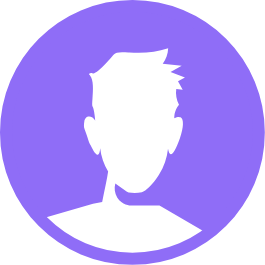
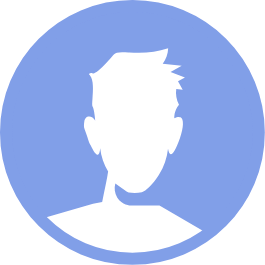
updated colors

diff --git a/homepage.css b/homepage.css
@@ -13,11 +13,11 @@ footer {
     height: 3em;
     font-size: small;
     text-align: center;
-    background-color: #ba80fb;
+    background-color: #8fa9ea;
 }
 
 #search-bar {
-    background-color: #ba80fb;
+    background-color: #8fa9ea;
     height: 60px;
     display: flex;
     justify-content: center;
@@ -47,7 +47,7 @@ footer {
 }
 
 #sort-by {
-    border-top: 2px solid #ba80fb;
+    border-top: 2px solid #8fa9ea;
     padding-top: 10px;
     background-color: #e6e6e6;
     text-align: right;
@@ -79,16 +79,16 @@ main .row {
     padding: 5px;
     width:32%;
     display: inline-block;
-    border: 3px solid #ba80fb;
+    border: 3px solid #8fa9ea;
   }
   
 .box p {
-    color: #ba80fb;
+    color: #8fa9ea;
     margin: 0;
   }
 
 .details-box{
-    background-color: #ba80fb;
+    background-color: #8fa9ea;
     border-radius: 10px;
     padding: 5px;
     width: 100%;
@@ -105,7 +105,7 @@ main .row {
 
 #filter-header {
     text-align: center;
-    background-color: #ba80fb;
+    background-color: #8fa9ea;
     color: white;
 }
 

diff --git a/profilepage.css b/profilepage.css
@@ -6,7 +6,7 @@
 
 
 #home-bar {
-    background-color: #ba80fb;
+    background-color: #8fa9ea;
     height: 60px;
     display: flex;
     justify-content: center;
@@ -111,5 +111,5 @@ footer {
     height: 3em;
     font-size: small;
     text-align: center;
-    background-color: #ba80fb;
+    background-color: #8fa9ea;
 }
